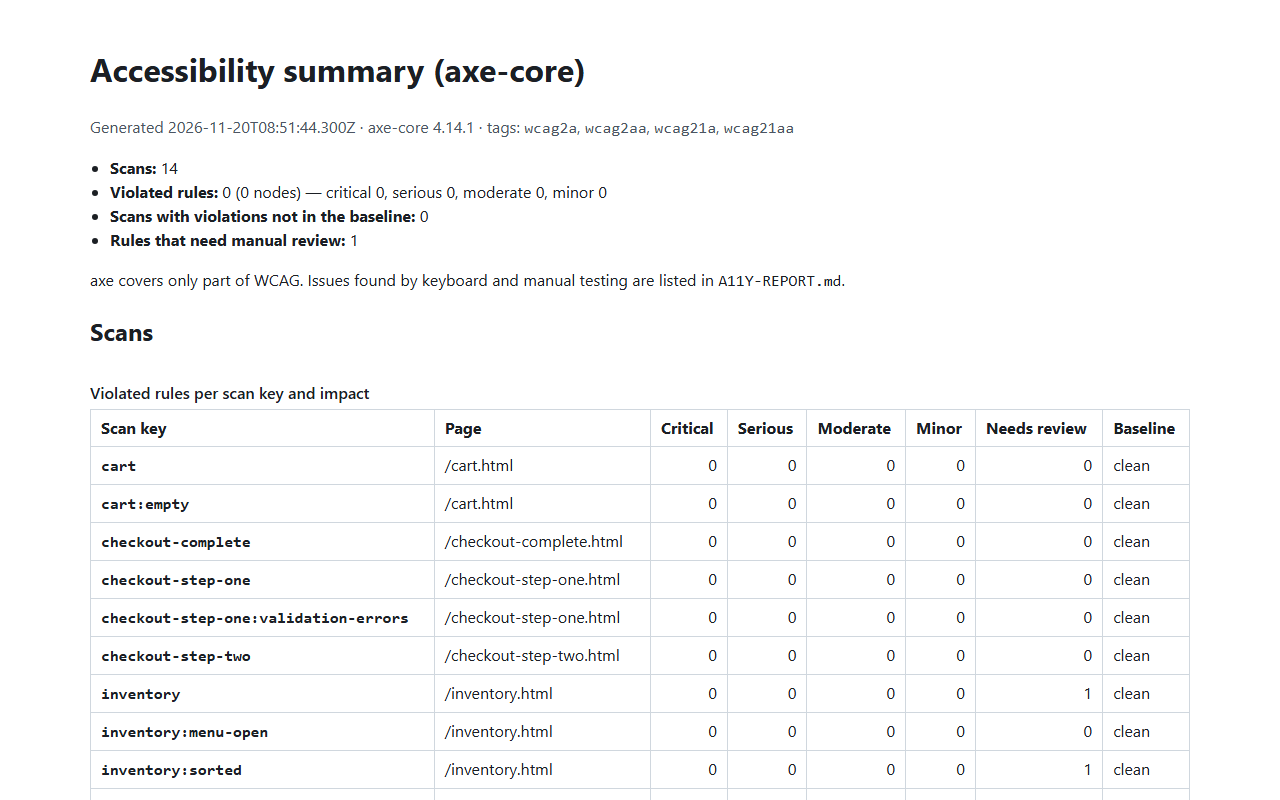
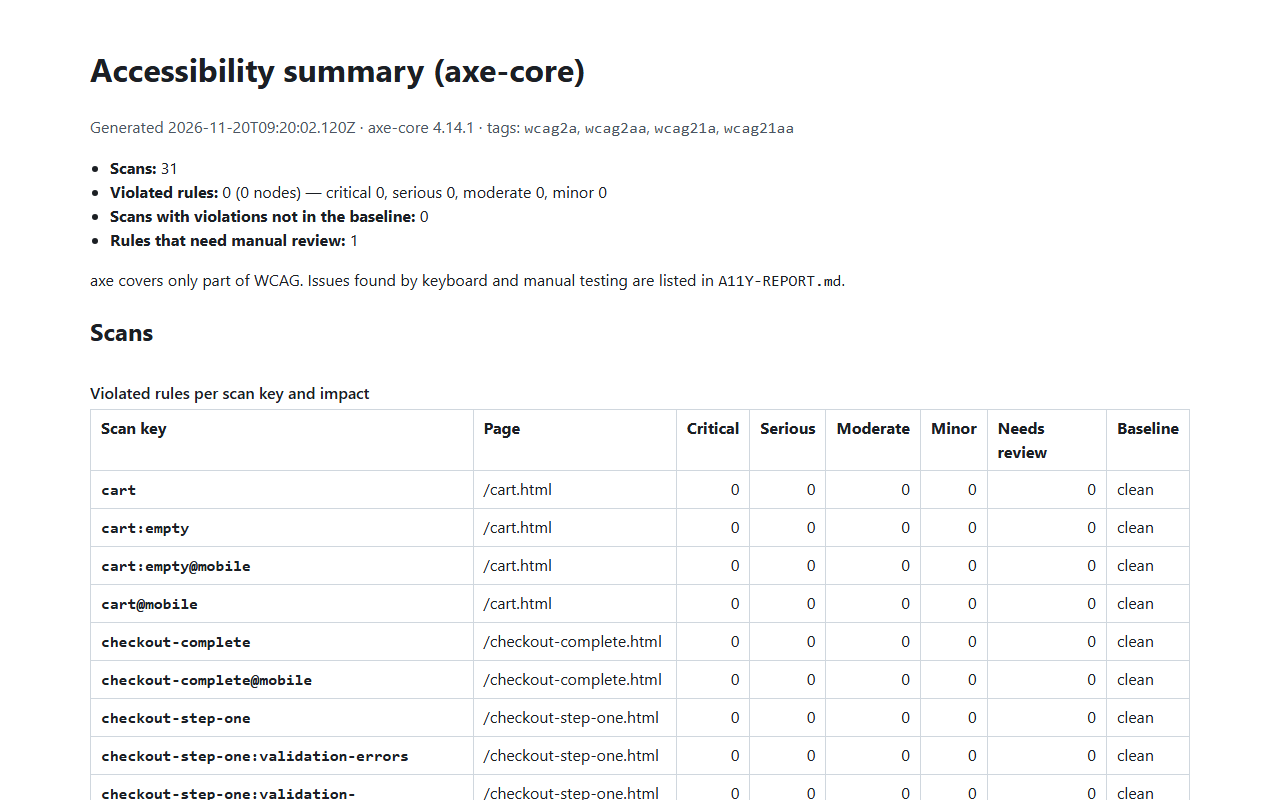
docs: document Phase 10 results and A11Y-012
- A11Y-REPORT: A11Y-012 (menu animation ignores prefers-reduced-motion,
  2.3.3 AAA advisory), mobile and forced-colors scans in the manual
  checks table, refined A11Y-003 (inconsistent aria-hidden/hidden state)
  and A11Y-004 (Space double toggle observed via key/click events)
- README: mobile/forced-colors/reduced-motion/visual section, how to add
  Linux snapshots, updated architecture tree and results
- CLAUDE.md: tests/media and tests/visual in the structure
- PLAN.md: Phase 10 ticked; "second site" intentionally skipped
- refreshed README screenshots

diff --git a/A11Y-REPORT.md b/A11Y-REPORT.md
@@ -10,7 +10,7 @@
 
 ## Підсумок
 
-Автоматичне сканування axe (теги `wcag2a`, `wcag2aa`, `wcag21a`, `wcag21aa`) **не знайшло жодного порушення** на 7 сторінках і 7 станах UI. Проте клавіатурні тести та ручна перевірка виявили **11 проблем**. Одна з них **повністю блокує** покупку для користувачів, які працюють лише з клавіатурою. Це наочно показує межі автоматизації: axe перевіряє розмітку, а не взаємодію.
+Автоматичне сканування axe (теги `wcag2a`, `wcag2aa`, `wcag21a`, `wcag21aa`) **не знайшло жодного порушення** на 7 сторінках і 7 станах UI (десктоп і мобільний в'юпорт iPhone 13), а також у режимі `forced-colors`. Проте клавіатурні тести, перевірка медіа-налаштувань і ручна перевірка виявили **12 проблем**. Одна з них **повністю блокує** покупку для користувачів, які працюють лише з клавіатурою. Це наочно показує межі автоматизації: axe перевіряє розмітку, а не взаємодію.
 
 | ID | Проблема | WCAG | Severity | Джерело |
 |---|---|---|---|---|
@@ -25,6 +25,7 @@
 | [A11Y-009](#a11y-009) | Поля форм без видимих підписів (лише placeholder) | 3.3.2 Labels or Instructions (A) | Medium | ручна |
 | [A11Y-010](#a11y-010) | Помилки валідації не пов'язані з полями програмно | 3.3.1 Error Identification (A), рекомендація | Low | ручна |
 | [A11Y-011](#a11y-011) | На сторінках немає заголовка `h1` і структури заголовків | 1.3.1 Info and Relationships (A) | Low | axe best-practice + ручна |
+| [A11Y-012](#a11y-012) | Анімація меню ігнорує `prefers-reduced-motion` | 2.3.3 Animation from Interactions (AAA), рекомендація | Low | автотест (media) |
 
 **Шкала severity:** Critical — блокує ключовий сценарій; High — серйозно ускладнює роботу групі користувачів; Medium — створює плутанину, але має обхідний шлях; Low — незначна незручність або рекомендація.
 
@@ -70,7 +71,7 @@
 **Після закриття меню фокус не повертається на кнопку «Open Menu»**
 
 - **Сторінка/стан:** будь-яка авторизована сторінка, бургер-меню
-- **Опис:** після закриття меню клавішею Escape або кнопкою «Close Menu» фокус переходить на `<body>`. Наступний Tab починає обхід з початку документа. Поведінка до того ж нестабільна: у WebKit фокус на ~0.3 s потрапляє на кнопку, а потім все одно падає на `<body>`. У Firefox під навантаженням фокус іноді не переходить у відкрите меню.
+- **Опис:** після закриття меню клавішею Escape або кнопкою «Close Menu» фокус переходить на `<body>`. Наступний Tab починає обхід з початку документа. Поведінка до того ж нестабільна: у WebKit фокус на ~0.3 s потрапляє на кнопку, а потім все одно падає на `<body>`. У Firefox під навантаженням фокус іноді не переходить у відкрите меню. Зафіксовано й неузгоджений стан самої панелі: `aria-hidden="false"` (для скрінрідера меню відкрите) разом з атрибутом `hidden` (на екрані меню немає), після чого кнопка «Close Menu» недосяжна.
 - **Критерій WCAG:** 2.4.3 Focus Order (A)
 - **Кого зачіпає:** користувачів клавіатури та скрінрідерів: втрачається контекст, скрінрідер нічого не оголошує.
 - **Кроки відтворення:**
@@ -89,14 +90,14 @@
 
 - **Сторінка/стан:** бургер-меню
 - **Опис:**
-  1. Space на нативній `<button id="react-burger-menu-btn">` не відкриває меню (Enter відкриває). Так у всіх трьох рушіях.
+  1. Space на нативній `<button id="react-burger-menu-btn">` не відкриває меню надійно (Enter відкриває). Спостереження подій (`keydown` → `keyup` → `click`) показало подвійне перемикання: у Firefox меню відкривається на `keydown` і закривається на `click` після `keyup` (4 з 6 спроб; у 2 з 6 лишається відкритим); у Chromium і WebKit `click` переводить меню у стан «закрито» (6 з 6). Результат залежить від таймінгу, тож в окремих прогонах меню все ж відкривається.
   2. Пункти меню «All Items», «Logout», «Reset App State», «Dynamic Catalog» — це `<a href="#" role="button">`. Роль `button` обіцяє активацію клавішею Space, але посилання реагує лише на Enter, а Space прокручує сторінку.
 - **Критерій WCAG:** 2.1.1 Keyboard (A); 4.1.2 Name, Role, Value (A) — заявлена роль не відповідає поведінці.
 - **Кого зачіпає:** користувачів клавіатури та скрінрідерів, які звикли активувати кнопки клавішею Space.
 - **Кроки відтворення:** Tab до «Open Menu» → Space; або відкрити меню → фокус на «Reset App State» → Space.
 - **Очікувано:** меню відкривається; дія пункту виконується.
 - **Фактично:** нічого не відбувається / сторінка прокручується (`scrollY` 0 → 390).
-- **Рекомендація:** не перехоплювати Space на кнопці меню; для пунктів-дій використати `<button>` або додати обробник `keydown` для Space з `preventDefault()`.
+- **Рекомендація:** обробляти активацію лише через подію `click` нативної кнопки (не дублювати її власним обробником `keydown`); для пунктів-дій використати `<button>` або додати обробник `keydown` для Space з `preventDefault()`.
 - **Severity:** Medium (є обхідний шлях через Enter)
 - **Джерело:** клавіатура (`menu.keyboard.spec.ts`)
 
@@ -212,6 +213,23 @@
 - **Severity:** Low
 - **Джерело:** axe (теги best-practice, поза скоупом CI-сканування) + ручна перевірка
 
+## A11Y-012
+
+**Анімація бургер-меню ігнорує `prefers-reduced-motion`**
+
+- **Сторінка/стан:** будь-яка авторизована сторінка, відкриття/закриття меню
+- **Опис:** панель меню виїжджає з `transition: 0.5s` (inline-стиль react-burger-menu). Якщо в системі ввімкнено «зменшити рух» (`prefers-reduced-motion: reduce`), анімація все одно відтворюється. Підтверджено в Chromium, Firefox і WebKit.
+- **Критерій WCAG:** 2.3.3 Animation from Interactions (AAA) — поза обов'язковим рівнем AA, тому це рекомендація.
+- **Кого зачіпає:** людей з вестибулярними розладами, мігренню, епілепсією, з порушеннями уваги.
+- **Кроки відтворення:**
+  1. Увімкнути «Reduce motion» в ОС (або DevTools → Rendering → `prefers-reduced-motion: reduce`).
+  2. Відкрити меню.
+- **Очікувано:** меню з'являється без анімації (`transition-duration: 0s`).
+- **Фактично:** `transition-duration: 0.5s`.
+- **Рекомендація:** `@media (prefers-reduced-motion: reduce) { .bm-menu-wrap, .bm-overlay { transition: none !important; } }` або передати `noTransition` у компонент меню, коли медіа-запит активний.
+- **Severity:** Low
+- **Джерело:** автотест `tests/media/user-preferences.media.spec.ts`
+
 ---
 
 ## Ручні перевірки без дефектів
@@ -219,6 +237,7 @@
 | Перевірка | Результат |
 |---|---|
 | axe `incomplete`: `color-contrast` для `.active_option`, `select`, описів товарів (axe не зміг визначити фон через псевдоелемент) | Перевірено вручну: текст `#132322` на `#FFFFFF` ≈ **15:1**, проходить 1.4.3 Contrast (Minimum) |
+| axe на мобільному в'юпорті (iPhone 13, 14 сканувань) і в режимі `forced-colors` (3 сканування) | 0 порушень WCAG 2.1 A/AA |
 | Keyboard trap у меню (2.1.2 No Keyboard Trap) | Немає: фокус виходить з меню в обидва боки (Tab / Shift+Tab) |
 | Порядок Tab на login та в картці товару | Логічний: Username → Password → Login; зображення → назва → кнопка |
 | Закрите меню не потрапляє в Tab-послідовність | Так: пункти мають `tabindex="-1"` і `aria-hidden="true"` |
@@ -229,7 +248,7 @@ WebKit (як і Safari з вимкненим налаштуванням «Press 
 
 ## Обмеження автоматизації
 
-За оцінками Deque, axe-core автоматично виявляє приблизно 30–57 % проблем WCAG (залежно від методики підрахунку). Цей проєкт це добре ілюструє: **0 порушень від axe проти 11 проблем**, знайдених клавіатурними тестами та вручну.
+За оцінками Deque, axe-core автоматично виявляє приблизно 30–57 % проблем WCAG (залежно від методики підрахунку). Цей проєкт це добре ілюструє: **0 порушень від axe проти 12 проблем**, знайдених клавіатурними тестами та вручну.
 
 | Що перевіряє автоматизація | Чого вона не бачить (або бачить частково) |
 |---|---|
@@ -237,7 +256,8 @@ WebKit (як і Safari з вимкненим налаштуванням «Press 
 | Контраст тексту, якщо фон можна обчислити | Контраст поверх зображень, градієнтів і псевдоелементів (axe повертає `incomplete`) |
 | Статичну розмітку в момент сканування | Поведінку: куди переходить фокус, чи працює Space, чи повертається фокус (A11Y-003, -004, -006) |
 | Що елемент має роль `button` | Що він **фокусується** і **активується** з клавіатури (A11Y-002) |
-| — | Видимість індикатора фокуса (A11Y-001): перевіряється окремим тестом через computed style |
+| — | Видимість індикатора фокуса (A11Y-001): перевіряється окремо через computed style, піксельне порівняння «до/після фокуса» і в режимі `forced-colors` |
+| — | Реакцію на медіа-налаштування користувача (`prefers-reduced-motion`, A11Y-012) |
 | — | Наслідки дій: Enter у формі запускає «Cancel» (A11Y-007) |
 | — | Якість оголошень скрінрідера, зрозумілість текстів, когнітивне навантаження |
 

diff --git a/README.md b/README.md
@@ -13,8 +13,8 @@
 
 | Що | Результат |
 |---|---|
-| axe-core, теги `wcag2a` `wcag2aa` `wcag21a` `wcag21aa`, 7 сторінок + 7 станів UI | **0 порушень** WCAG 2.1 A/AA; 1 правило потребує ручної перевірки (перевірено, контраст ≈15:1) |
-| Клавіатурні тести (Chromium, Firefox, WebKit) + ручна перевірка | **11 проблем**, зокрема 1 Critical: користувач клавіатури **не може дістатися до кошика** і завершити покупку |
+| axe-core, теги `wcag2a` `wcag2aa` `wcag21a` `wcag21aa`: 31 сканування (7 сторінок + 7 станів UI на десктопі й на мобільному в'юпорті, 3 у режимі `forced-colors`) | **0 порушень** WCAG 2.1 A/AA; 1 правило потребує ручної перевірки (перевірено, контраст ≈15:1) |
+| Клавіатурні тести (Chromium, Firefox, WebKit), медіа-налаштування, піксельні перевірки фокуса, ручна перевірка | **12 проблем**, зокрема 1 Critical: користувач клавіатури **не може дістатися до кошика** і завершити покупку |
 
 Сайт «чистий» для автоматичного сканера, але недоступний для людини з клавіатурою. Саме тому фреймворк поєднує axe-сканування з клавіатурними тестами, а всі знахідки задокументовано в [A11Y-REPORT.md](A11Y-REPORT.md).
 
@@ -35,14 +35,14 @@
 git clone https://github.com/OWNER/REPO.git && cd REPO
 npm ci
 npx playwright install chromium firefox webkit   # на Linux/CI: --with-deps
-npm test                                          # ~3 хв: unit + axe + keyboard у 3 браузерах
+npm test                                          # ~3–4 хв: unit + axe + keyboard + media + visual
 npm run report                                    # відкрити HTML-звіт Playwright
 ```
 
 | Команда | Що робить |
 |---|---|
 | `npm test` | усі тести (unit, smoke, axe, keyboard) |
-| `npm run test:a11y` | лише axe-сканування (`tests/a11y`, Chromium) |
+| `npm run test:a11y` | лише axe-сканування (`tests/a11y`: Chromium + мобільний в'юпорт) |
 | `npm run test:keyboard` | лише клавіатурні тести (3 браузери) |
 | `npm run test:headed` | з видимим браузером |
 | `npm run a11y:summary` | `reports/a11y-summary.md` + `.html` з результатів сканувань |
@@ -74,8 +74,11 @@ src/
 tests/
 ├── unit/                      # unit-тести хелперів (без браузера) + axe-перевірка згенерованих сторінок
 ├── smoke/                     # повний шлях покупки через Page Objects
-├── a11y/                      # pages / states / baseline-guard
+├── a11y/                      # pages / states / media (forced-colors) / baseline-guard
 ├── keyboard/                  # login / inventory / menu / checkout / focus-visible
+├── media/                     # prefers-reduced-motion, фокус у forced-colors
+├── visual/                    # піксельні перевірки фокус-станів + toHaveScreenshot
+├── __screenshots__/<platform>/ # еталонні знімки фокус-станів
 └── support/                   # спільні очікування для тестів (стан меню, примітки щодо браузерів)
 scripts/                       # baseline-update, a11y-summary, build-pages, docs-screenshots
 ```
@@ -107,6 +110,14 @@ test ──► a11yScan('inventory:menu-open', { include, exclude })
 - **Реальні баги не підганяються під тест:** такий тест позначено `test.fail()` з ID з A11Y-REPORT. Після виправлення на сайті Playwright повідомить «expected to fail, but passed», і позначку треба буде прибрати. Кожен `test.fail` перевірено: він падає саме на очікуваній перевірці, а не через таймаут.
 - WebKit (як і Safari за замовчуванням) не включає посилання в Tab-послідовність, тому тести, яким це потрібно, у WebKit пропускаються з поясненням.
 
+### Мобільний в'юпорт, медіа-налаштування, візуальні перевірки
+
+- **Мобільний в'юпорт:** проєкт `mobile-chromium` (метрики `devices['iPhone 13']` на Chromium, щоб результати axe були порівнянні з десктопним baseline) повторює всі сканування сторінок і станів. Ключі отримують суфікс `@mobile` (`metadata.a11yVariant` проєкту).
+- **forced-colors:** axe-сканування з `forcedColors: 'active'` (ключі `@forced-colors`) і перевірка, що індикатор фокуса видно в режимі високого контрасту (A11Y-001).
+- **prefers-reduced-motion:** чи вимикає застосунок анімацію меню (A11Y-012) — у всіх трьох рушіях.
+- **Візуальні фокус-стани** (`tests/visual`): піксельне порівняння області до і після фокуса (не потребує еталонів, працює на будь-якій ОС) + `toHaveScreenshot` як регресійний знімок. Самоперевірка підставляє рекомендований стиль `:focus-visible` і доводить, що детектори фокуса здатні «побачити» кільце, тобто червоні A11Y-001 — це дефект сайту, а не тесту.
+- Еталонні знімки зберігаються окремо для кожної платформи (`tests/__screenshots__/<platform>/`). Наразі закомічено лише `win32`, тому в CI chromium-лег запускається з `--ignore-snapshots`. Щоб додати Linux-знімки: `docker run --rm -v "$PWD":/work -w /work mcr.microsoft.com/playwright:v1.65.1-noble npx playwright test tests/visual --update-snapshots` і закомітити `tests/__screenshots__/linux`.
+
 ## Звіти
 
 | Артефакт | Де |
@@ -124,7 +135,7 @@ test ──► a11yScan('inventory:menu-open', { include, exclude })
 `.github/workflows/a11y.yml` запускається на `push` у `main`, на `pull_request`, вручну (`workflow_dispatch`) і щотижня за розкладом (сайт живий і може змінитися):
 
 1. **lint** — `typecheck`, ESLint, Prettier.
-2. **test** — matrix `chromium` / `firefox` / `webkit`: кеш npm, `playwright install --with-deps <browser>`, blob-звіти й `reports/` як артефакти (14 днів). Chromium додатково запускає unit-тести й axe-сканування.
+2. **test** — matrix `chromium` / `firefox` / `webkit`: кеш npm, `playwright install --with-deps <browser>`, blob-звіти й `reports/` як артефакти (14 днів). Chromium додатково запускає unit-тести, axe-сканування (десктоп + мобільний) і візуальні перевірки фокуса.
 3. **summary** — `merge-reports` в один HTML/JSON-звіт, зведення axe в Job Summary, збірка `site/`.
 4. **deploy-report** (лише `main`) — `upload-pages-artifact` + `deploy-pages`.
 
@@ -137,6 +148,7 @@ test ──► a11yScan('inventory:menu-open', { include, exclude })
 ## Що я б додав далі
 
 - Окремий проєкт зі свідомо недоступним сайтом для порівняння ефективності підходу.
+- Linux-еталони фокус-станів у репозиторії та прибрати `--ignore-snapshots` з CI.
 - Перевірку на рівні нод (target-селектори) для критичних правил, наприклад `color-contrast`, на додачу до rule id.
 - Автоматичну перевірку `document.title` при SPA-навігації (A11Y-008) і зв'язку помилок із полями (A11Y-010).
 - Тести зі скрінрідером (Guidepup / NVDA) для перевірки фактичних оголошень.

diff --git a/PLAN.md b/PLAN.md
@@ -157,7 +157,8 @@
 
 ## Фаза 10 (опційно). Розширення
 
-- [ ] Сканування на мобільному в'юпорті (`devices['iPhone 13']`)
-- [ ] Перевірка режиму `prefers-reduced-motion` та `forced-colors`
-- [ ] Візуальне порівняння фокус-станів (`toHaveScreenshot`) для ключових елементів
+- [x] Сканування на мобільному в'юпорті (`devices['iPhone 13']`)
+- [x] Перевірка режиму `prefers-reduced-motion` та `forced-colors`
+- [x] Візуальне порівняння фокус-станів (`toHaveScreenshot`) для ключових елементів
 - [ ] Окремий проєкт для другого сайту з навмисно поганою доступністю для порівняння
+      _(свідомо пропущено за рішенням власника проєкту; винесено в «Що я б додав далі» в README)_

diff --git a/CLAUDE.md b/CLAUDE.md
@@ -68,6 +68,8 @@ npm run typecheck              # tsc --noEmit
 │   ├── smoke/                  # *.smoke.spec.ts — шлях покупки через Page Objects
 │   ├── a11y/                   # *.a11y.spec.ts — axe-сканування сторінок і станів (лише chromium)
 │   ├── keyboard/               # *.keyboard.spec.ts — навігація з клавіатури
+│   ├── media/                  # *.media.spec.ts — prefers-reduced-motion, forced-colors
+│   ├── visual/                 # *.visual.spec.ts — фокус-стани (лише chromium), еталони в __screenshots__/<platform>
 │   └── support/                # спільні expect-хелпери для тестів (не Page Objects)
 ├── scripts/                    # a11y-summary, baseline-update, build-pages, docs-screenshots
 ├── docs/images/                # скриншоти для README (node scripts/docs-screenshots.ts)
